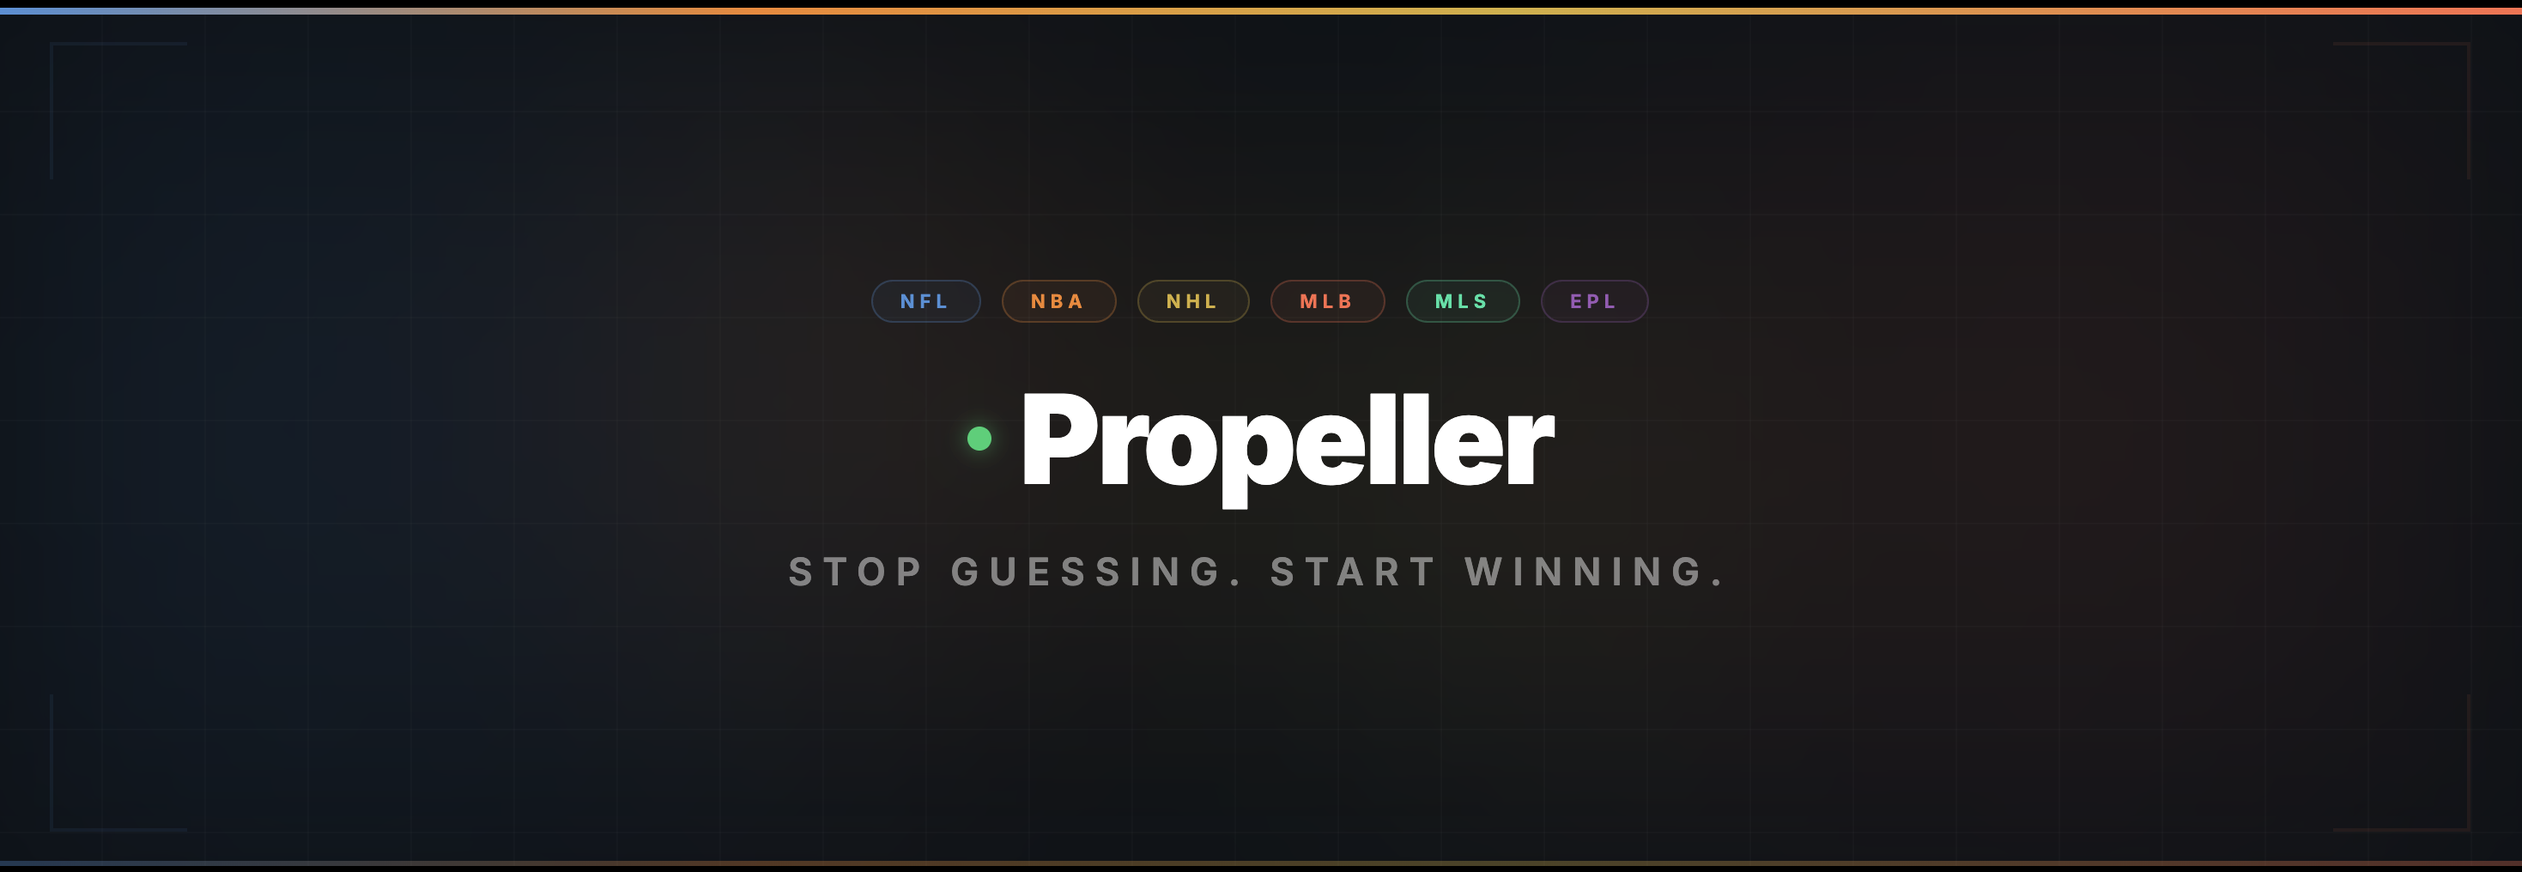
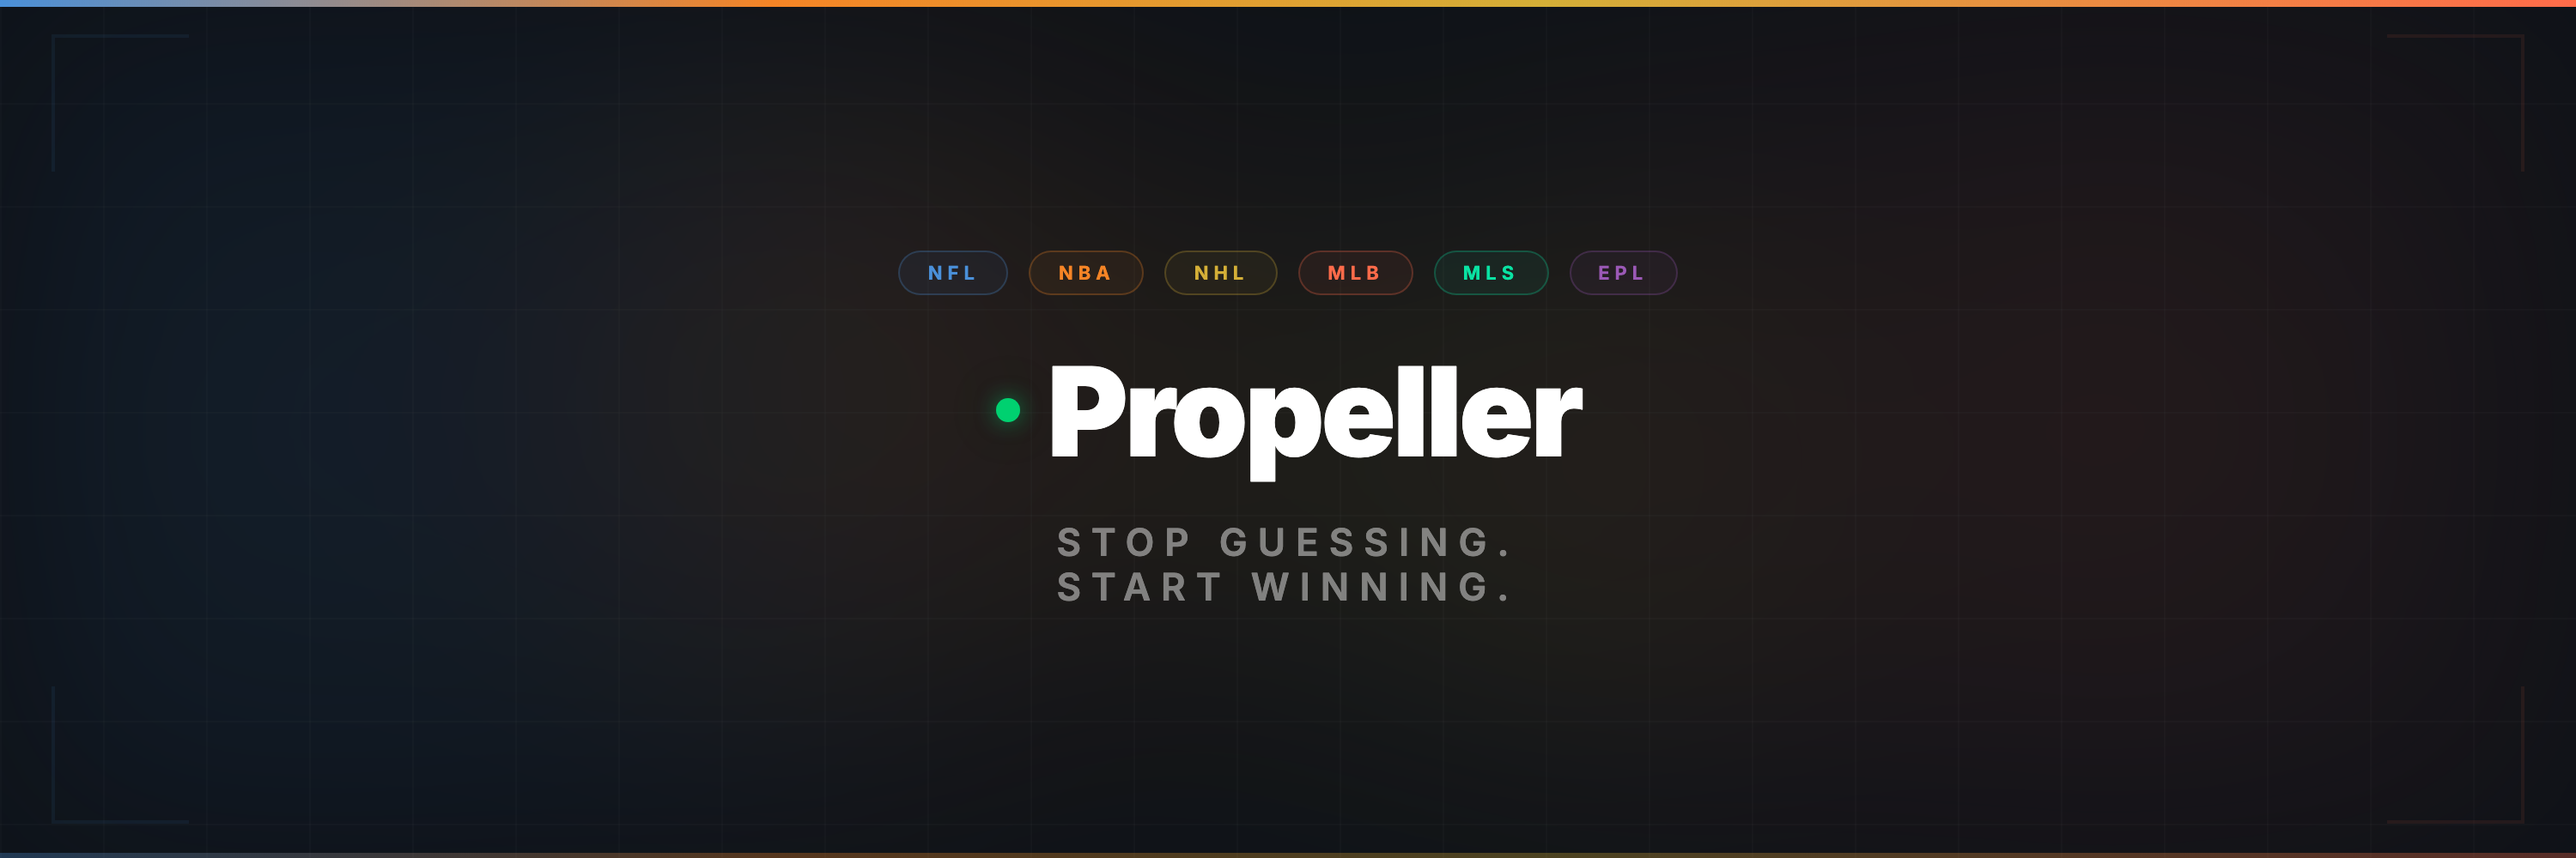
update: OG share image with two-line tagline

diff --git a/blog/weekly/soccer-results-2026-03-16.html b/blog/weekly/soccer-results-2026-03-16.html
@@ -24,8 +24,8 @@
 <meta property="og:title" content="Soccer Prop Results: 85.2% Win Rate — Week of Mar 10-Mar 16 | Propeller">
 <meta property="og:description" content="Propeller Soccer picks went 2785-482 (85.2%) for the week of Mar 10-Mar 16. Confidence bracket breakdown, stat analysis, and top picks inside.">
 <meta property="og:image" content="https://propellerpicks.com/images/og-image.png">
-<meta property="og:image:width" content="2938">
-<meta property="og:image:height" content="1016">
+<meta property="og:image:width" content="3000">
+<meta property="og:image:height" content="1000">
 <meta property="og:site_name" content="Propeller">
 <meta property="og:locale" content="en_US">
 <meta property="article:published_time" content="2026-03-16">

diff --git a/results/index.html b/results/index.html
@@ -25,8 +25,8 @@
 <meta property="og:title" content="Propeller Results: 59%+ Win Rate Across 17,000+ Graded Props">
 <meta property="og:description" content="59%+ verified win rate across 17,000+ graded NFL, NBA, MLB, NHL, EPL &amp; MLS player prop picks. Every prediction logged before game time, graded against real stats — no retroactive changes, no cherry-picking.">
 <meta property="og:image" content="https://propellerpicks.com/images/og-image.png">
-<meta property="og:image:width" content="2938">
-<meta property="og:image:height" content="1016">
+<meta property="og:image:width" content="3000">
+<meta property="og:image:height" content="1000">
 <meta property="og:site_name" content="Propeller">
 <meta property="og:locale" content="en_US">
 

diff --git a/blog/weekly/nhl-results-2026-03-16.html b/blog/weekly/nhl-results-2026-03-16.html
@@ -24,8 +24,8 @@
 <meta property="og:title" content="NHL Prop Results: 61.3% Win Rate — Week of Mar 10-Mar 16 | Propeller">
 <meta property="og:description" content="Propeller NHL picks went 1725-1089 (61.3%) for the week of Mar 10-Mar 16. Confidence bracket breakdown, stat analysis, and top picks inside.">
 <meta property="og:image" content="https://propellerpicks.com/images/og-image.png">
-<meta property="og:image:width" content="2938">
-<meta property="og:image:height" content="1016">
+<meta property="og:image:width" content="3000">
+<meta property="og:image:height" content="1000">
 <meta property="og:site_name" content="Propeller">
 <meta property="og:locale" content="en_US">
 <meta property="article:published_time" content="2026-03-16">

diff --git a/blog/weekly/nba-results-2026-03-16.html b/blog/weekly/nba-results-2026-03-16.html
@@ -24,8 +24,8 @@
 <meta property="og:title" content="NBA Prop Results: 51.4% Win Rate — Week of Mar 10-Mar 16 | Propeller">
 <meta property="og:description" content="Propeller NBA picks went 455-431 (51.4%) for the week of Mar 10-Mar 16. Confidence bracket breakdown, stat analysis, and top picks inside.">
 <meta property="og:image" content="https://propellerpicks.com/images/og-image.png">
-<meta property="og:image:width" content="2938">
-<meta property="og:image:height" content="1016">
+<meta property="og:image:width" content="3000">
+<meta property="og:image:height" content="1000">
 <meta property="og:site_name" content="Propeller">
 <meta property="og:locale" content="en_US">
 <meta property="article:published_time" content="2026-03-16">

diff --git a/index.html b/index.html
@@ -25,8 +25,8 @@
 <meta property="og:title" content="Propeller — AI Confidence Scores for Pick'em & Player Props">
 <meta property="og:description" content="8 AI agents score every NFL, NBA, MLB, NHL, EPL, and MLS player prop with simple confidence ratings. 59% win rate. Built for Pick6, Underdog, PrizePicks, and FanDuel — no jargon, just clear picks.">
 <meta property="og:image" content="https://propellerpicks.com/images/og-image.png">
-<meta property="og:image:width" content="2938">
-<meta property="og:image:height" content="1016">
+<meta property="og:image:width" content="3000">
+<meta property="og:image:height" content="1000">
 <meta property="og:site_name" content="Propeller">
 <meta property="og:locale" content="en_US">
 

diff --git a/how-it-works/index.html b/how-it-works/index.html
@@ -24,8 +24,8 @@
 <meta property="og:title" content="How Propeller Works — AI Player Prop Analyzer">
 <meta property="og:description" content="8 AI agents score every player prop across 6 sports. Matchup analysis, injury cascades, sharp money detection, and more — combined into one confidence number. 59%+ win rate verified across 17,000+ picks.">
 <meta property="og:image" content="https://propellerpicks.com/images/og-image.png">
-<meta property="og:image:width" content="2938">
-<meta property="og:image:height" content="1016">
+<meta property="og:image:width" content="3000">
+<meta property="og:image:height" content="1000">
 <meta property="og:site_name" content="Propeller">
 <meta property="og:locale" content="en_US">
 

diff --git a/picks/nba/index.html b/picks/nba/index.html
@@ -25,8 +25,8 @@
 <meta property="og:title" content="NBA Prop Picks Today &mdash; Free AI Player Prop Analysis | Propeller">
 <meta property="og:description" content="Today's best NBA prop picks powered by 8 AI agents. See confidence scores, matchup analysis, and injury impact for every player prop. 59% verified win rate. Updated daily.">
 <meta property="og:image" content="https://propellerpicks.com/images/og-image.png">
-<meta property="og:image:width" content="2938">
-<meta property="og:image:height" content="1016">
+<meta property="og:image:width" content="3000">
+<meta property="og:image:height" content="1000">
 <meta property="og:site_name" content="Propeller">
 <meta property="og:locale" content="en_US">
 

diff --git a/picks/mlb/index.html b/picks/mlb/index.html
@@ -25,8 +25,8 @@
 <meta property="og:title" content="MLB Prop Picks Today &mdash; Free AI Player Prop Analysis | Propeller">
 <meta property="og:description" content="Today's best MLB prop picks powered by 8 AI agents. Pitcher matchups, park factors, platoon splits, and weather analysis. 59% verified win rate. Updated daily.">
 <meta property="og:image" content="https://propellerpicks.com/images/og-image.png">
-<meta property="og:image:width" content="2938">
-<meta property="og:image:height" content="1016">
+<meta property="og:image:width" content="3000">
+<meta property="og:image:height" content="1000">
 <meta property="og:site_name" content="Propeller">
 <meta property="og:locale" content="en_US">
 

diff --git a/picks/soccer/index.html b/picks/soccer/index.html
@@ -25,8 +25,8 @@
 <meta property="og:title" content="Soccer Prop Picks Today &mdash; EPL &amp; MLS AI Analysis | Propeller">
 <meta property="og:description" content="Today's best EPL and MLS prop picks powered by 7 AI agents. Lineup confirmation, matchup analysis, and form tracking. 59% verified win rate. Updated daily.">
 <meta property="og:image" content="https://propellerpicks.com/images/og-image.png">
-<meta property="og:image:width" content="2938">
-<meta property="og:image:height" content="1016">
+<meta property="og:image:width" content="3000">
+<meta property="og:image:height" content="1000">
 <meta property="og:site_name" content="Propeller">
 <meta property="og:locale" content="en_US">
 

diff --git a/picks/nfl/index.html b/picks/nfl/index.html
@@ -25,8 +25,8 @@
 <meta property="og:title" content="NFL Prop Picks Today &mdash; Free AI Player Prop Analysis | Propeller">
 <meta property="og:description" content="Today's best NFL prop picks powered by 8 AI agents. Matchup DVOA, injury cascades, sharp line movement detection. 59% verified win rate. Updated weekly.">
 <meta property="og:image" content="https://propellerpicks.com/images/og-image.png">
-<meta property="og:image:width" content="2938">
-<meta property="og:image:height" content="1016">
+<meta property="og:image:width" content="3000">
+<meta property="og:image:height" content="1000">
 <meta property="og:site_name" content="Propeller">
 <meta property="og:locale" content="en_US">
 

diff --git a/underdog/index.html b/underdog/index.html
@@ -24,8 +24,8 @@
 <meta property="og:title" content="Underdog Fantasy Strategy: Tips to Win More Picks | Propeller">
 <meta property="og:description" content="Beat Underdog Fantasy with AI-powered prop analysis. Propeller delivers confidence scores, injury cascade alerts, and matchup edges — 59% verified win rate.">
 <meta property="og:image" content="https://propellerpicks.com/images/og-image.png">
-<meta property="og:image:width" content="2938">
-<meta property="og:image:height" content="1016">
+<meta property="og:image:width" content="3000">
+<meta property="og:image:height" content="1000">
 <meta property="og:site_name" content="Propeller">
 <meta property="og:locale" content="en_US">
 

diff --git a/picks/nhl/index.html b/picks/nhl/index.html
@@ -25,8 +25,8 @@
 <meta property="og:title" content="NHL Prop Picks Today &mdash; Free AI Player Prop Analysis | Propeller">
 <meta property="og:description" content="Today's best NHL prop picks powered by 6 AI agents. Special teams analysis, line combinations, and no-vig odds. 59% verified win rate. Updated daily.">
 <meta property="og:image" content="https://propellerpicks.com/images/og-image.png">
-<meta property="og:image:width" content="2938">
-<meta property="og:image:height" content="1016">
+<meta property="og:image:width" content="3000">
+<meta property="og:image:height" content="1000">
 <meta property="og:site_name" content="Propeller">
 <meta property="og:locale" content="en_US">
 
